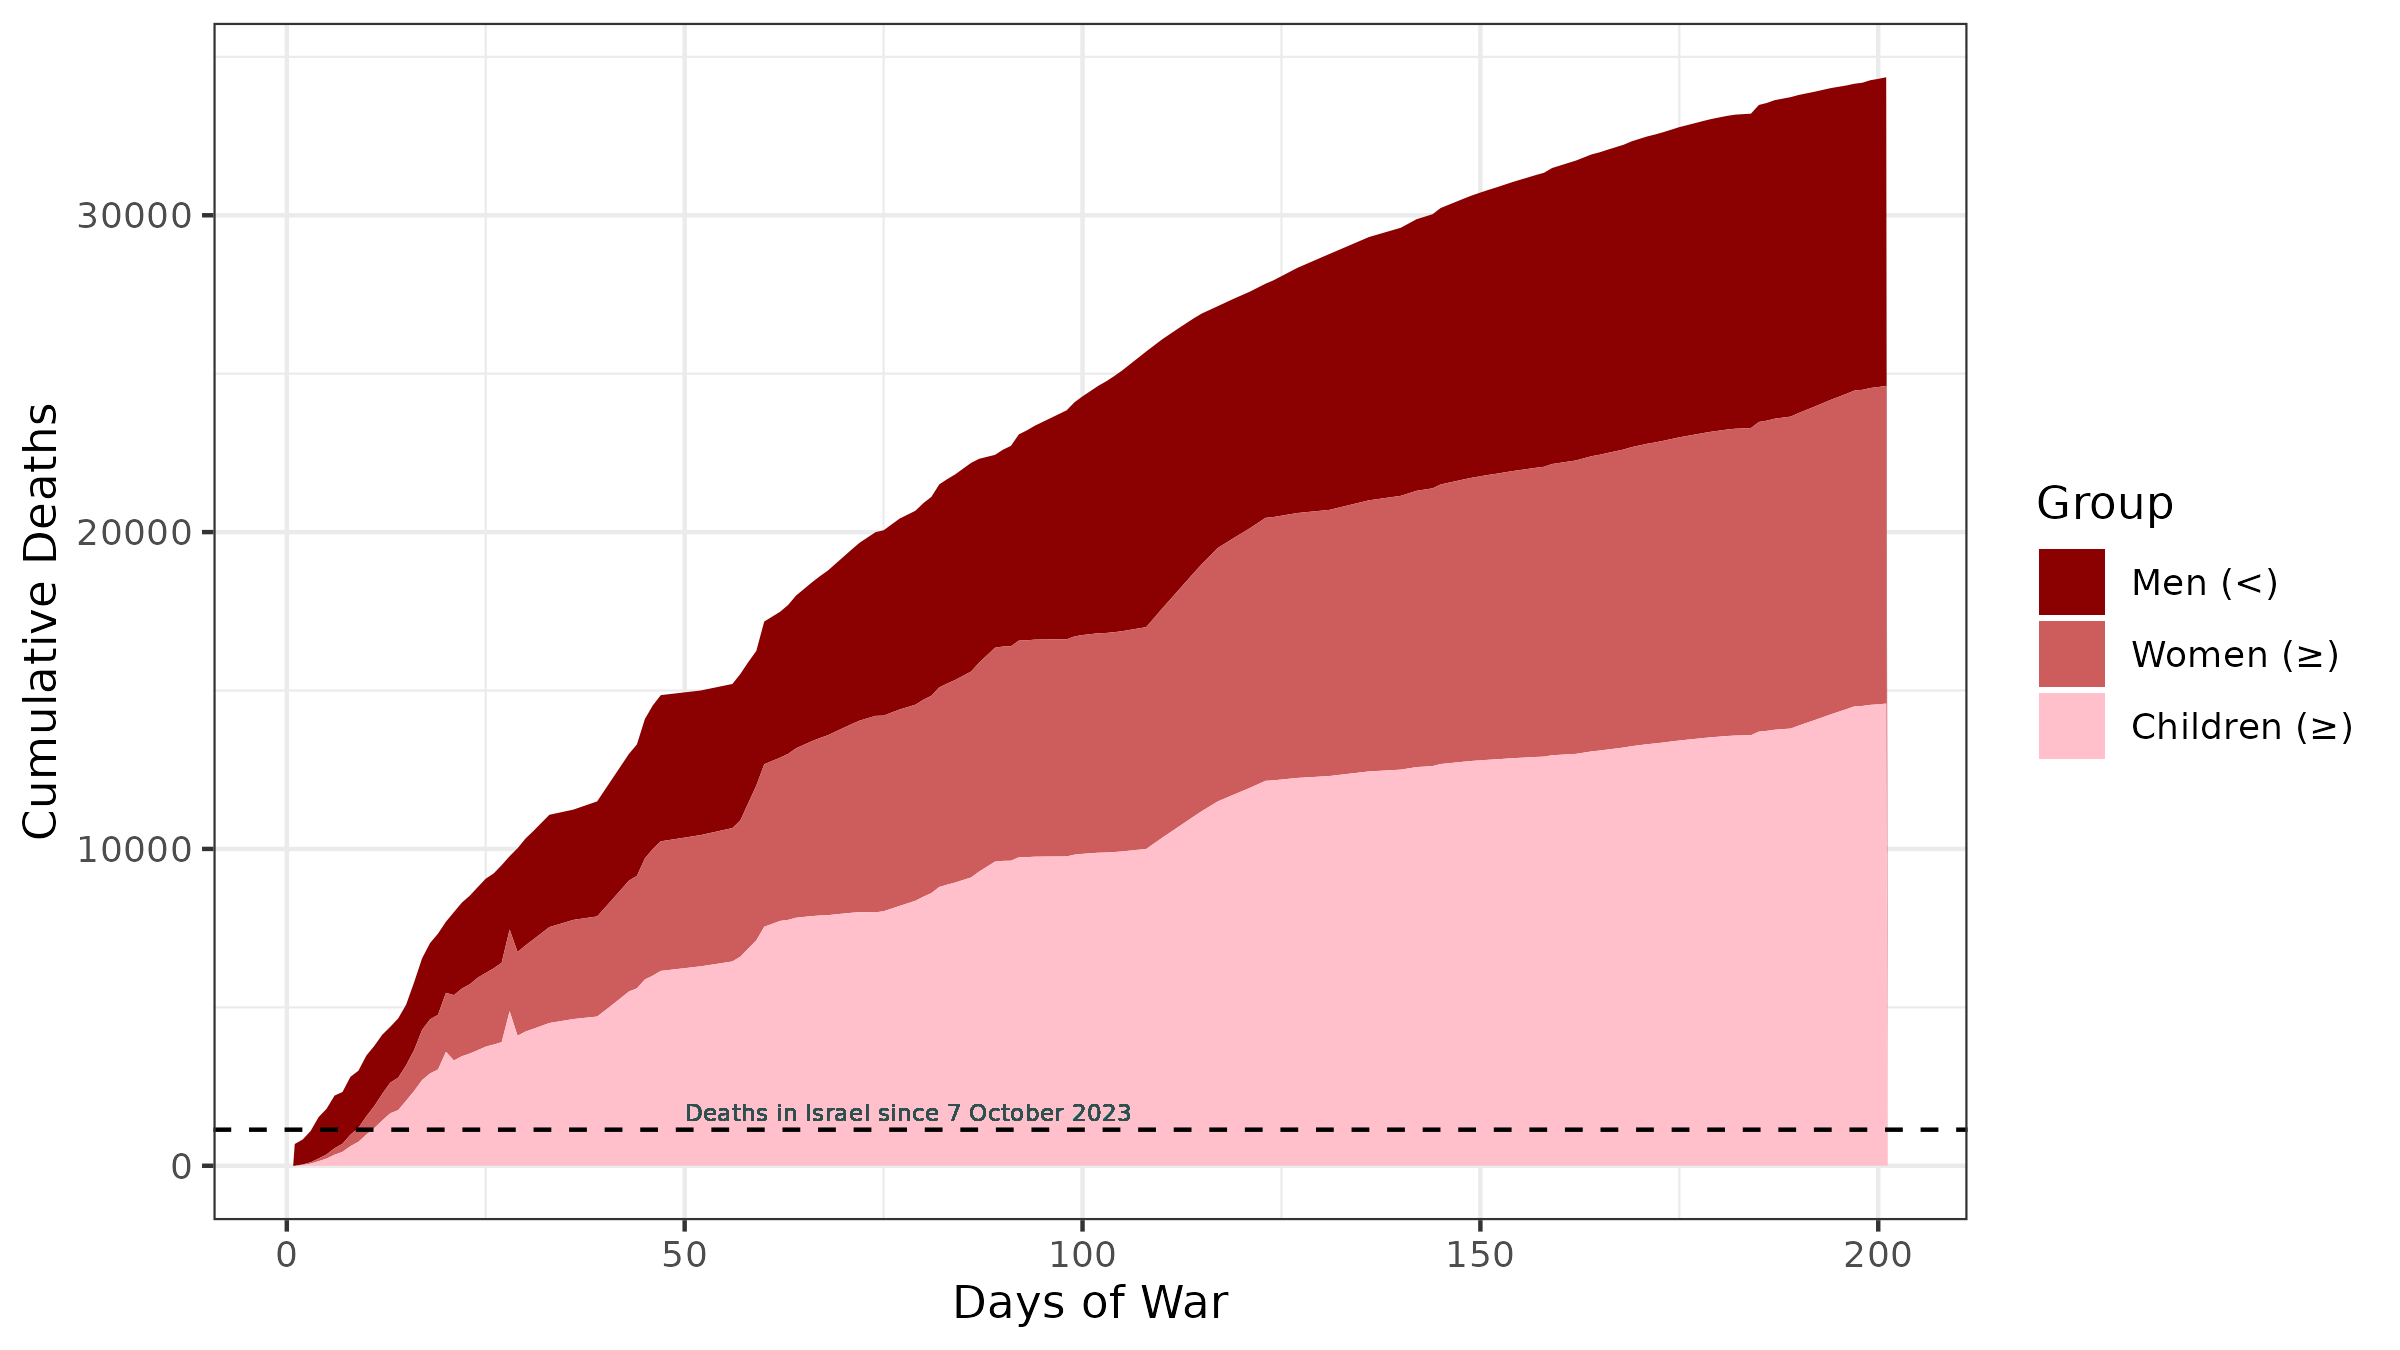
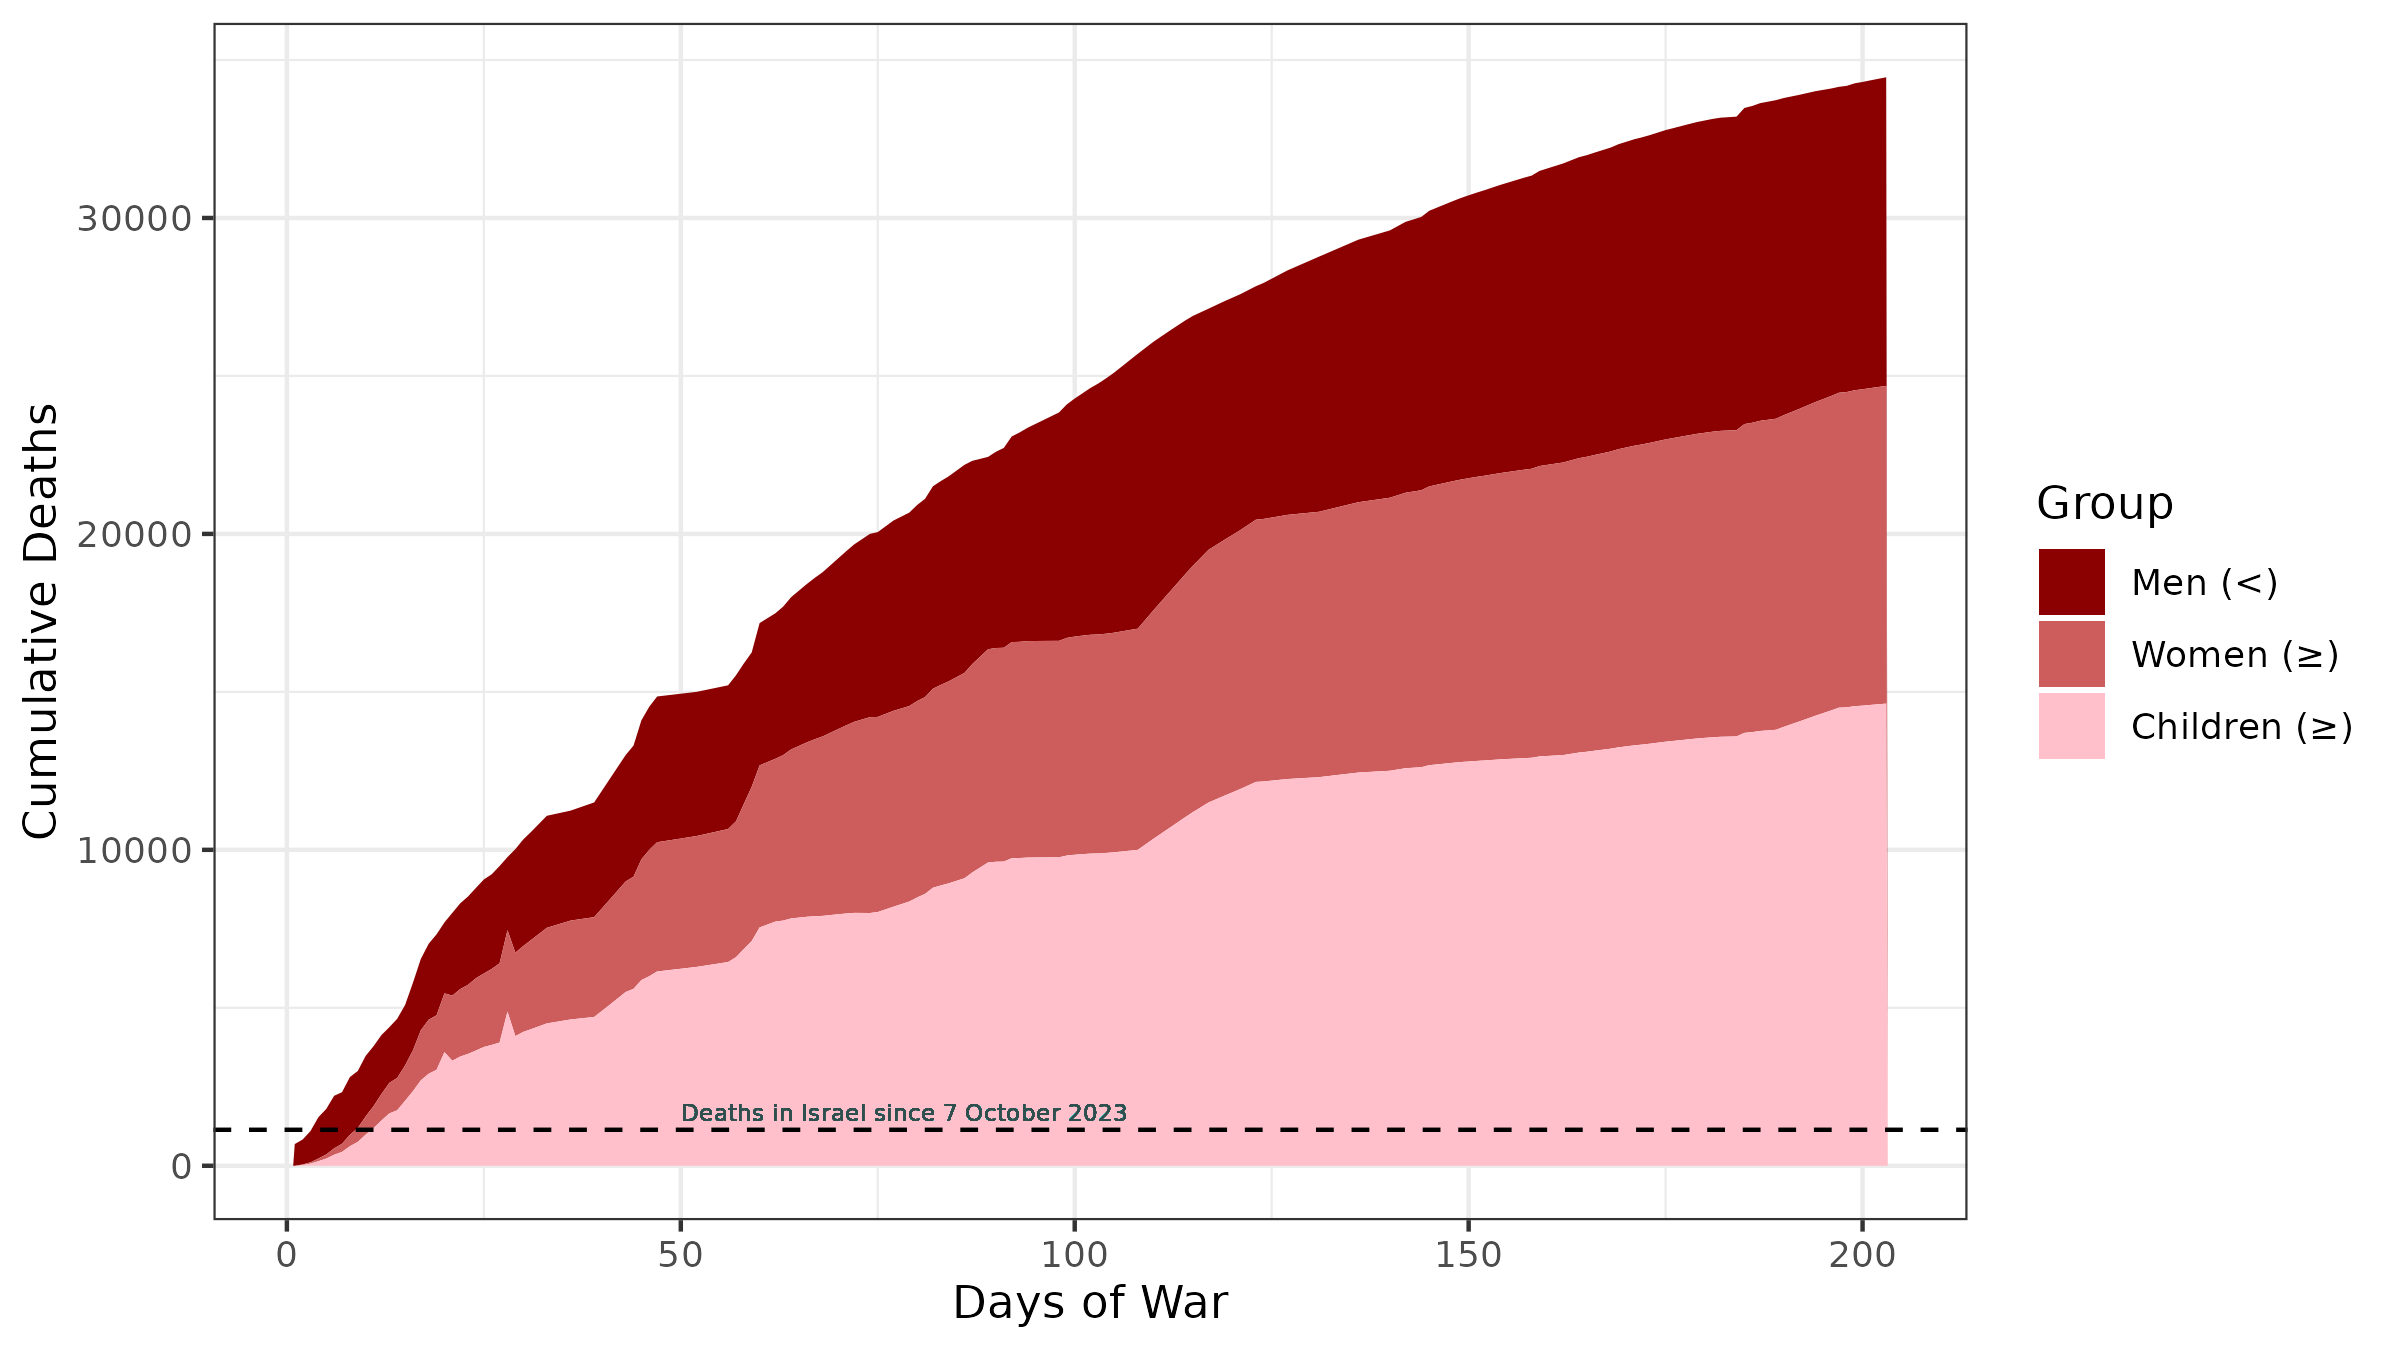
Data updated 28 April 2024

diff --git a/README.md b/README.md
@@ -1,5 +1,5 @@
 Tracking mortality in Palestine following Israel's assault against Gaza (2023-2024). 
-*Last updated 26 April 2024*
+*Last updated 28 April 2024*
 
 # Gaza Conflict Tracker
 
